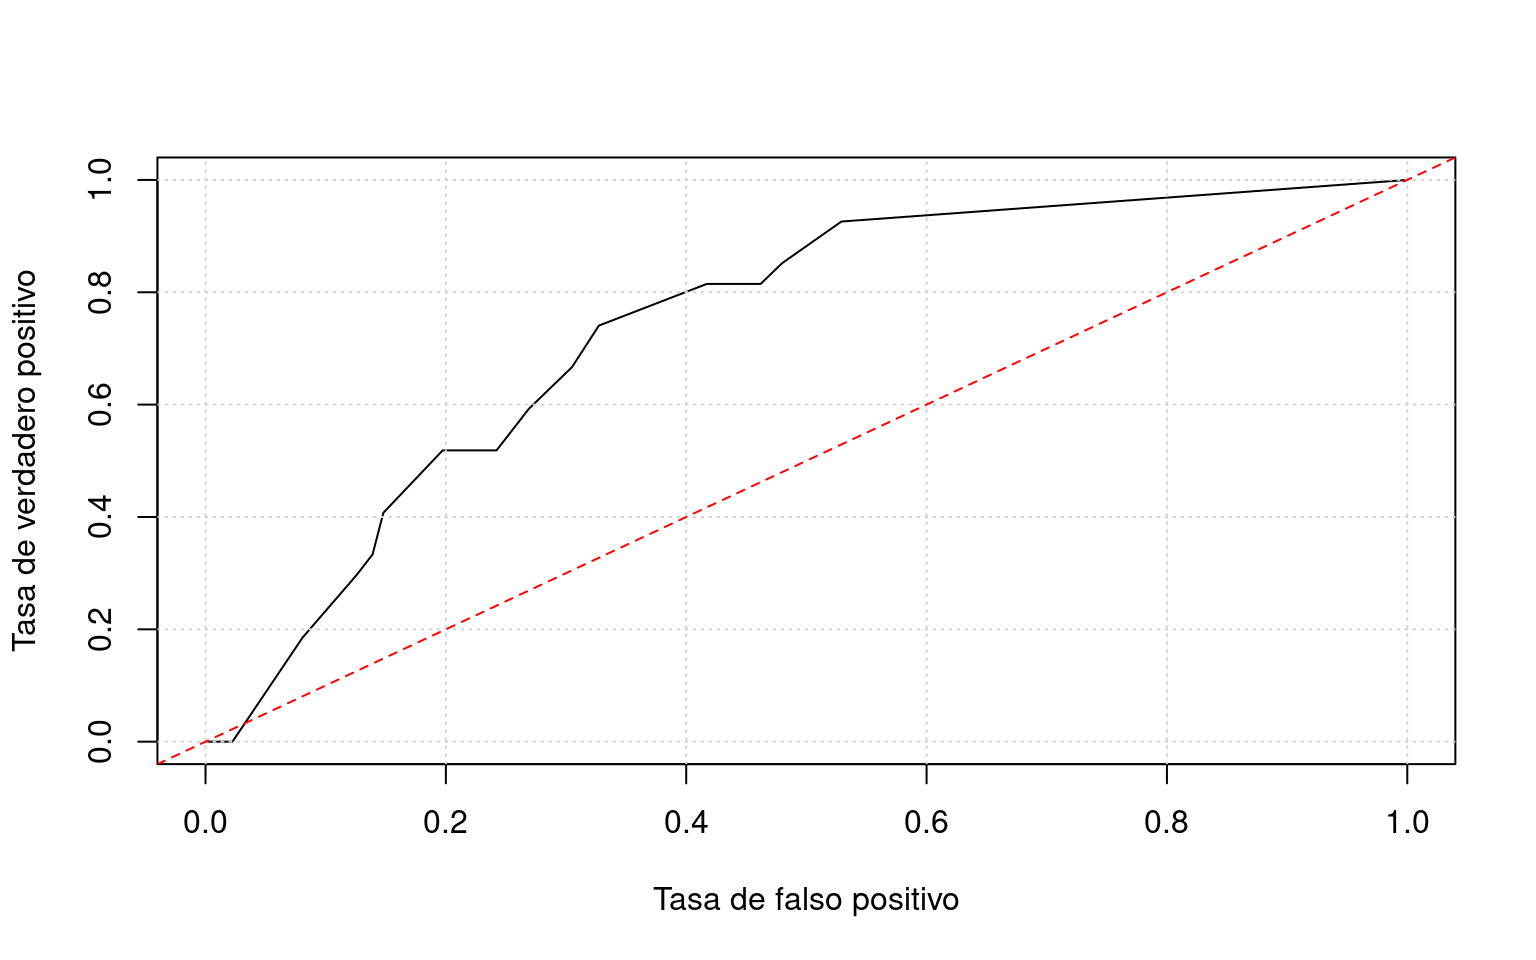
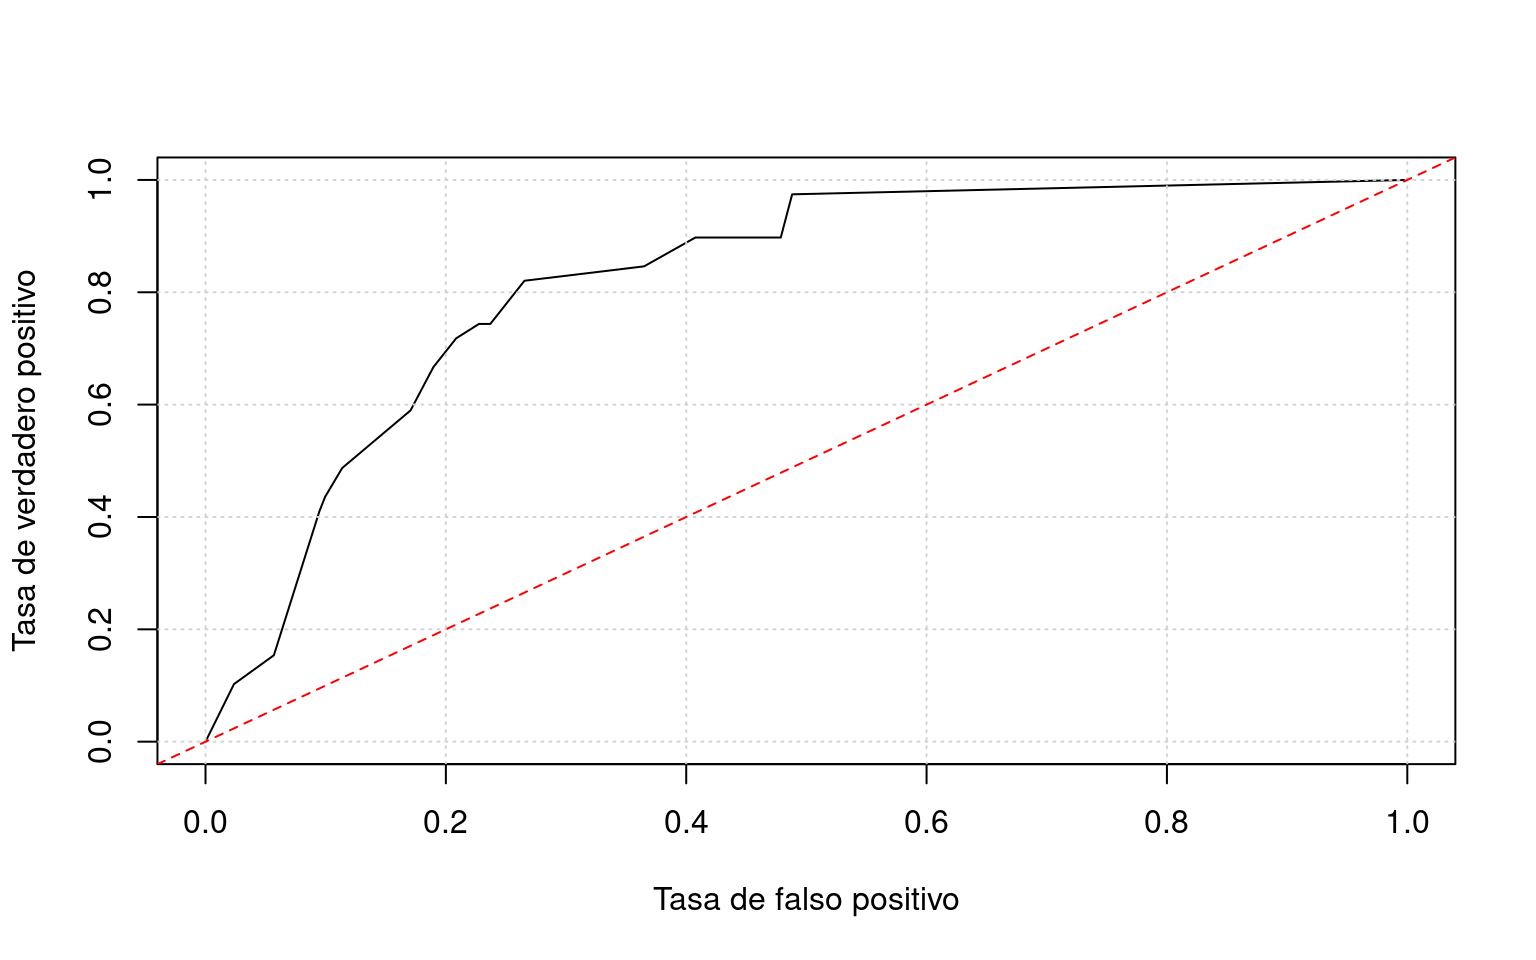
change images to code 2

diff --git a/index.html b/index.html
@@ -398,10 +398,6 @@ $(document).ready(function () {
 </p>
 <p>El modelo estadístico utilizado se basa en una regresión logística.</p>
 <p>Para el modelo se realiza un análisis de regresión logístico.</p>
-<pre><code>## Warning in train.default(trainSet[, predictors], trainSet[, outcomeName], : You
-## are trying to do regression and your outcome only has two possible values Are
-## you trying to do classification? If so, use a 2 level factor as your outcome
-## column.</code></pre>
 <div id="importancia-de-las-variables" class="section level3">
 <h3>Importancia de las variables</h3>
 <p><img src="index_files/figure-html/variable%20importance-1.png" width="768" /></p>
@@ -414,7 +410,7 @@ $(document).ready(function () {
 <p><img src="index_files/figure-html/auroc-1.png" width="768" /></p>
 <p class="bottom-space">
 </p>
-<p>El valor de la curva AUROC es de 0.7416542</p>
+<p>El valor de la curva AUROC es de 0.8216065</p>
 </div>
 </div>
 </div>
